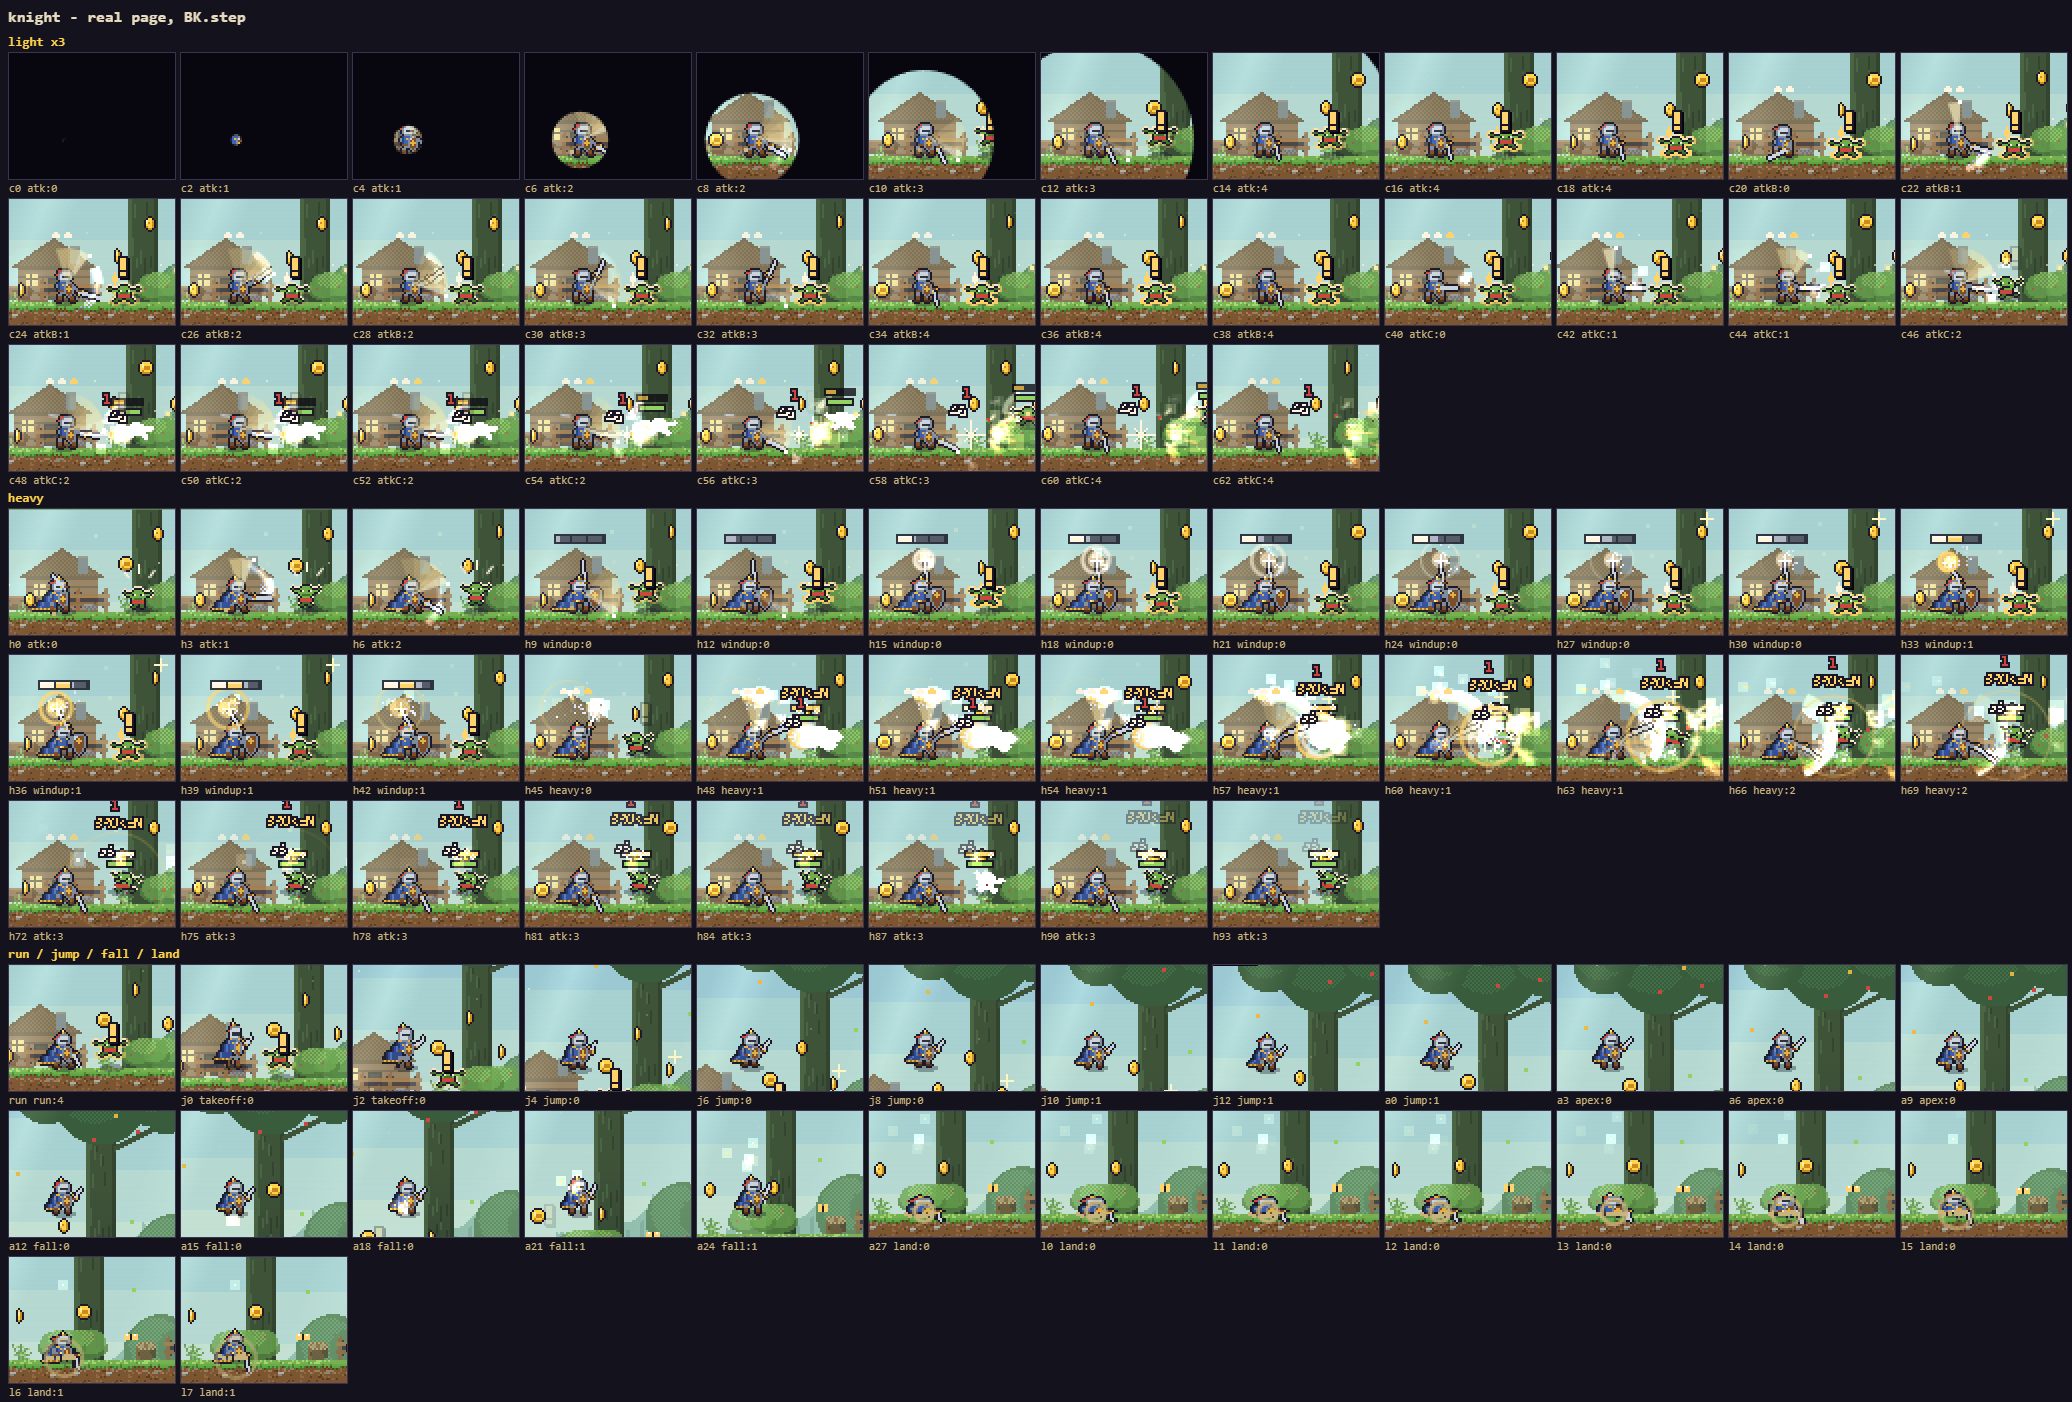
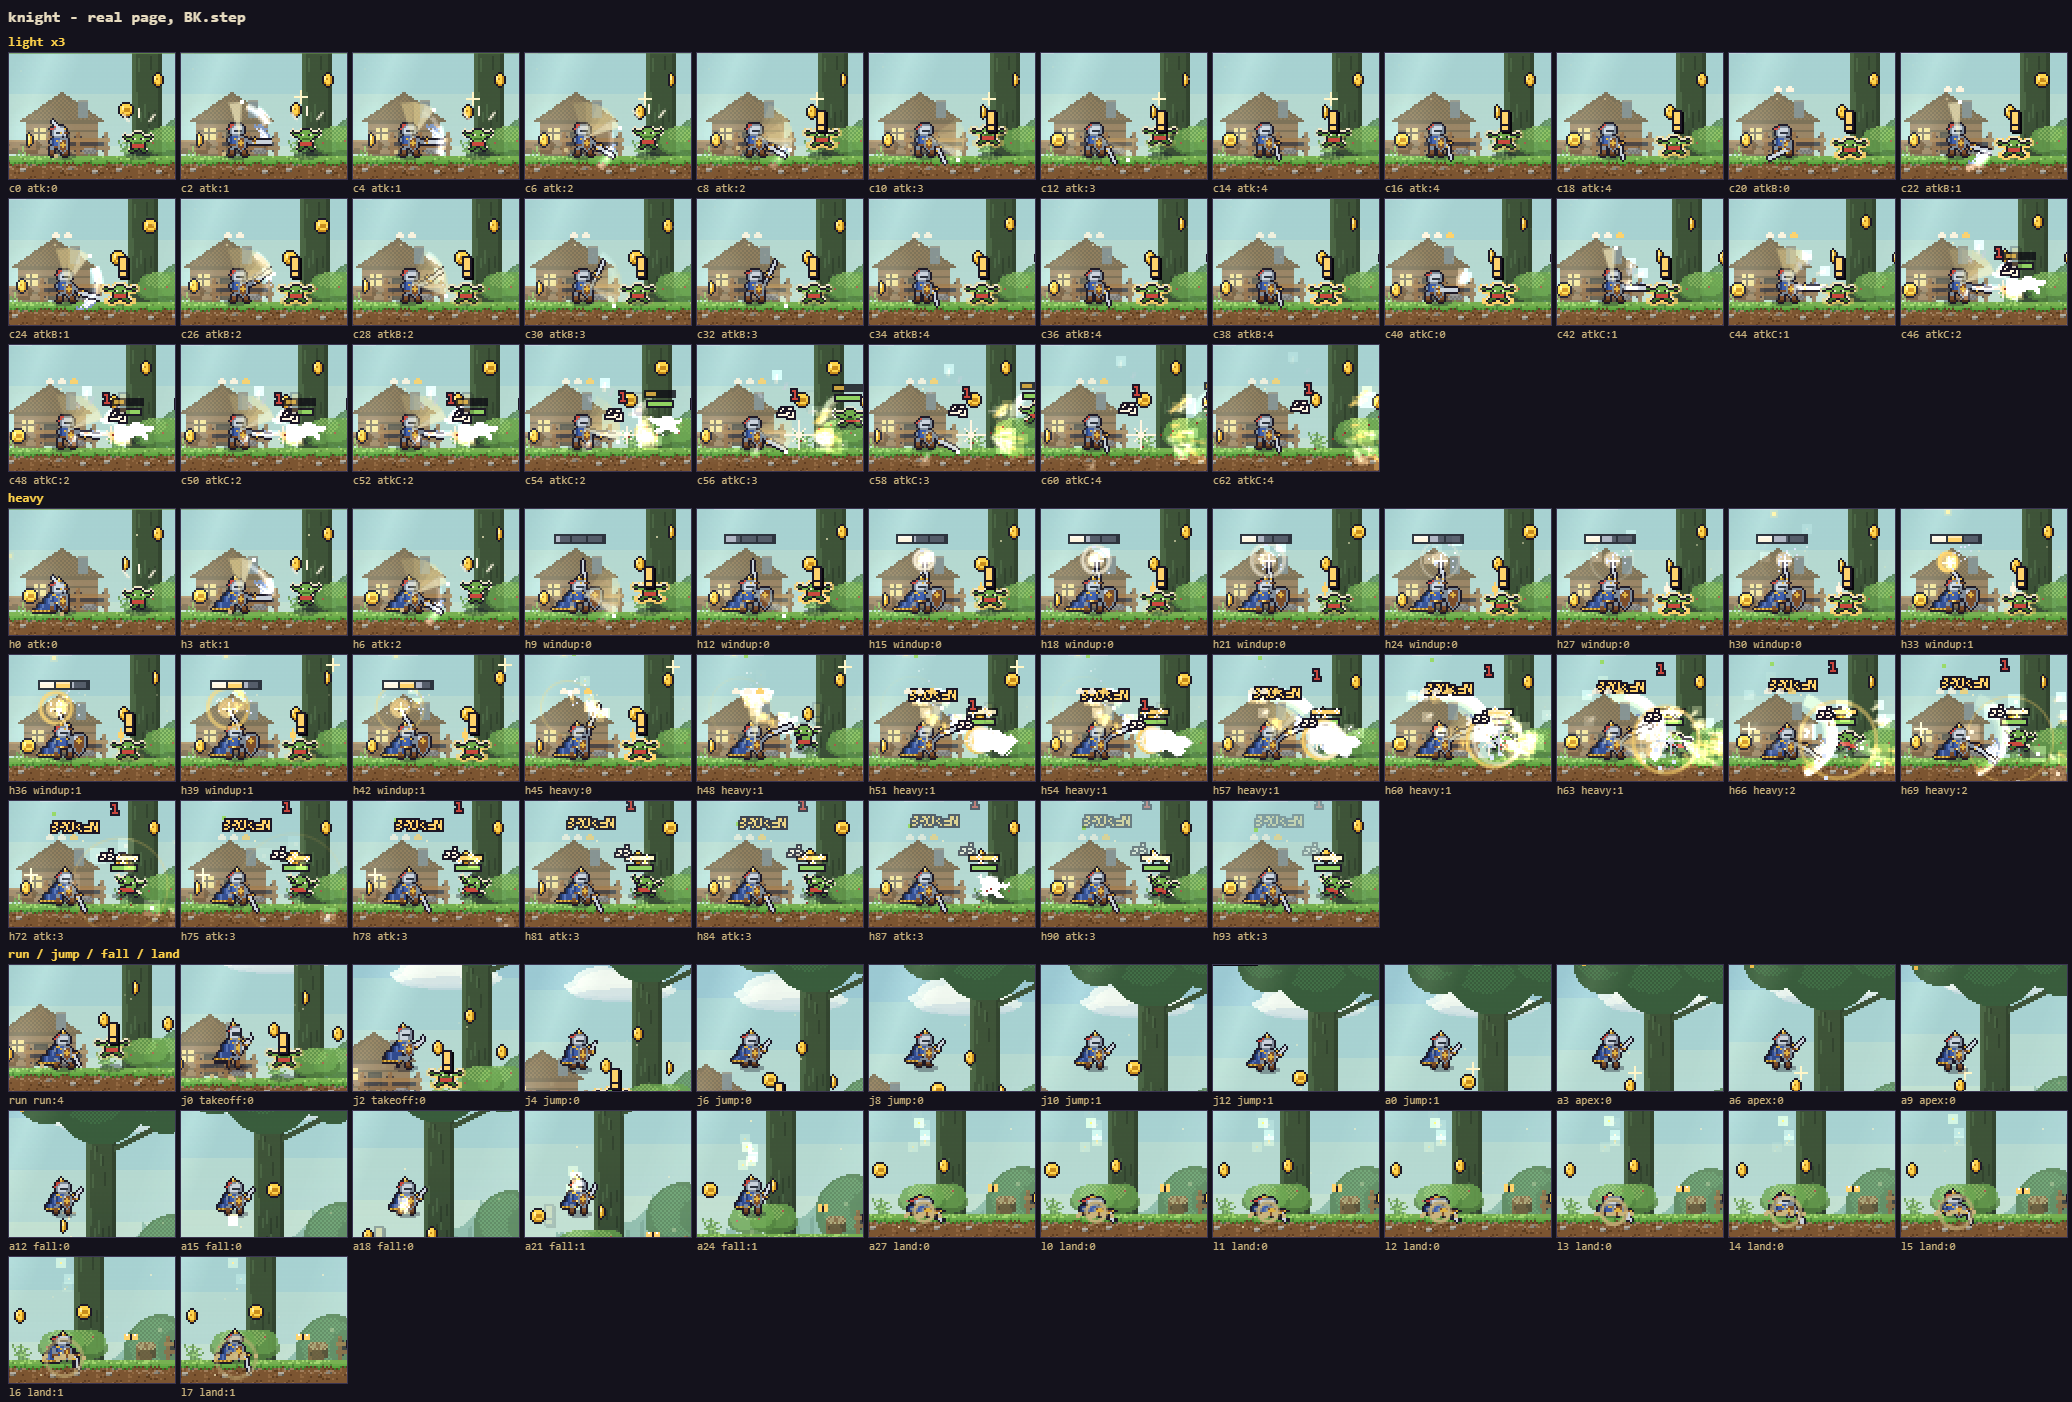
herokeys: lane report, strips

diff --git a/work/claude/lane-done/claude-herokeys.md b/work/claude/lane-done/claude-herokeys.md
@@ -1,0 +1,23 @@
+# claude/herokeys - HERO-KEYFRAMES (look only; timing untouched)
+Branch claude/herokeys off origin/claude/batch80 36c83412. Strips: work/claude/herokeys/{before,after}/<hero>-strip.png (real page, every 2-3 ticks), baked frames work/claude/herokeys/after-frames/<hero>-frames.png (4x), before sheets before-*.png.
+
+## What changed (src/chars.js, src/hero-poses.js, src/main.js 1 line)
+- The heroes were already drawn poses, but the blade just rotated between beats with no arc. Frame bakers now keep each blade's drawn hand + tip (c.wp); `smearPass` reads the beat BEFORE each strike beat and fills the arc the blade swept in hard pixels (bright core, checker dither, sparse tail, 1px rim, crescent taper), only onto empty pixels, never past the blade's own length. Straight thrusts (Warden spear, Pyro/Geomancer staff thrusts) get two speed lines along the shaft instead. Applied to beats 1-2 of atk / atkB / atkC / air and heavy, all 7 heroes (steel / gold Paladin / fire Pyro / blood Reaper / amber Geomancer).
+- Anticipation: every hero's light-attack wind-up frame sinks 1px (dy 1 / Pyro sit 1), as does the backhand/thrust wind-up shared by comboArcs.
+- Fall -> land pop: new art-only BRACE (`P.nearFloor`, set in the draw: falling > 140 px/s within 7 px of a solid tile) shows the landing set's 3rd (knees-bent) frame a beat before touch-down; heroes with 3 land frames only (all seven).
+- Existing: take-off / apex / 3-beat landing already existed; run->jump untouched.
+- Tools: tools/hero-keys-strip.mjs (real-page strips + per-tick attack-box/stamina fingerprint JSON), tools/hero-keys-sheet.mjs (all heroes' baked strike frames on one page load).
+
+## Timing proof
+Green, unchanged: ability-poses, attack-animation, tells, combat-part2, attack-tokens, hero-ledger, knight-rework, combat-feel, geomancer, skins, weapon-skins, dances, crouch-feet, slide, gear-tiers, modulepreload, dangling-paths.
+Attack-box live windows (atk time range + rectangle per swing kind) identical before/after for all 7 heroes, light chain and heavy (the knight chain gains one box x only because the pinned foe/knight drifted between runs - after vs after2 differ the same way).
+boss-rates wood --profile=human, knight/warden/pyro x 2 seeds: base (batch80) and this branch print IDENTICAL lines (same win/death, seconds, damage taken, 83%).
+
+## Not done / notes
+- Paladin's maul head hides most of its smear; Reaper's is a big blood crescent - judge by eye.
+- No extra frames inserted into the attack arrays (frame indices are keyed to beats everywhere); the follow-through is the existing beat 3 plus the smear on beat 2.
+- 'attack -> idle' pop left as is: recovery already holds the settle frame.
+
+## QUESTIONS FOR DANIEL
+- Smear colours/strength OK, or want it fainter / only on the heavy? (built: all light + heavy beats)
+- Want real extra drawn follow-through frames per hero (needs a beat-table change in attack-animation.js, still art-only)? Rec: yes, a later lane.
